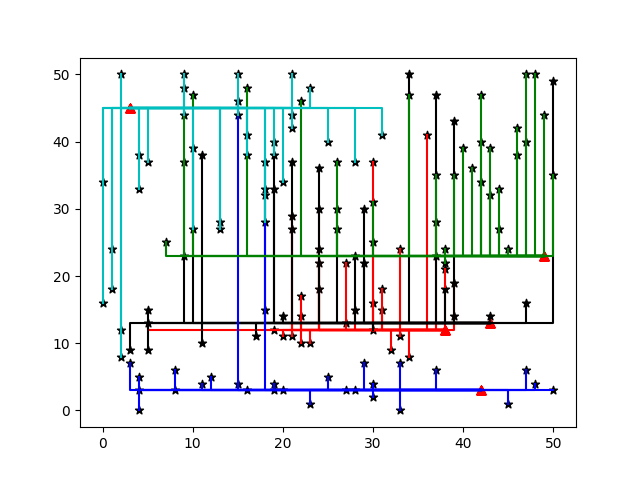
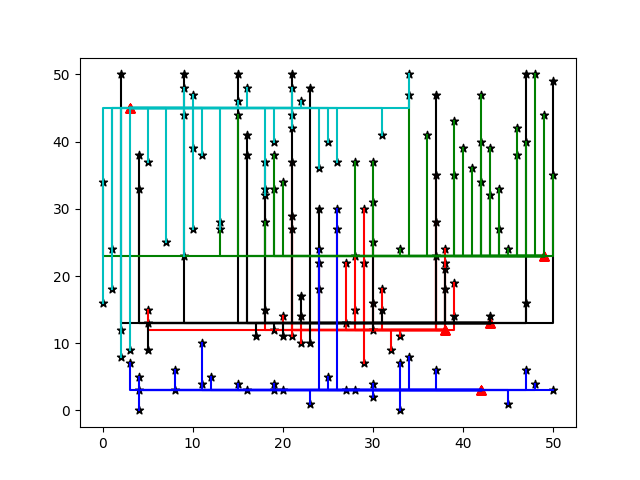
working output algorithm

diff --git a/code/classes/algorithm3.py b/code/classes/algorithm3.py
@@ -82,7 +82,7 @@ if len(unused_houses) == 0:
     for battery in batteries:
 
         # print(f"This is battery {battery.id} Houses: {battery.temp_houses_to_battery}")
-        print(f"NEW BATTERY")
+        print(f"NEW BATTERY!!")
         print(f"location: {battery.x,battery.y}")
         print(f"capacity: 1507.0")
         print(f"houses:")
@@ -98,9 +98,10 @@ if len(unused_houses) == 0:
             end_y = battery.y
 
             # make the route, while the coordinates of the route aren't the coordinates of the right battery: move
+            if current_y < end_y:
                 while current_y < end_y:
-                    house.cables.append((current_x, current_y))
-                    current_y += 1
+                        house.cables.append((current_x, current_y))
+                        current_y += 1
 
             elif current_y > end_y:
                 while current_y > end_y:
@@ -130,34 +131,34 @@ print(costs)
 
 
 
-# Loop to plot coordinates batteries
-i = -1
-for battery in batteries:
-    i += 1
-    for house in battery.houses_to_battery:
+# # Loop to plot coordinates batteries
+# i = -1
+# for battery in batteries:
+#     i += 1
+#     for house in battery.houses_to_battery:
 
-        # print(battery.houses_to_battery)
-        # for battery in batteries:
-        colors = ['r', 'k', 'b', 'g', 'c']
+#         # print(battery.houses_to_battery)
+#         # for battery in batteries:
+#         colors = ['r', 'k', 'b', 'g', 'c']
 
-        house_x = house.x
-        house_y = house.y
+#         house_x = house.x
+#         house_y = house.y
 
-        battery_x = battery.x
-        battery_y = battery.y
+#         battery_x = battery.x
+#         battery_y = battery.y
 
-        cutting_point_x = house.x
-        cutting_point_y = battery.y
+#         cutting_point_x = house.x
+#         cutting_point_y = battery.y
 
-        #plot line between house and cutting point 
-        x = [house_x, cutting_point_x, battery_x]
-        y = [house_y, cutting_point_y, battery_y]
+#         #plot line between house and cutting point 
+#         x = [house_x, cutting_point_x, battery_x]
+#         y = [house_y, cutting_point_y, battery_y]
 
-        ax = plt.subplot(111)
+#         ax = plt.subplot(111)
 
-        houses_plt = ax.scatter(house.x, house.y, color='k', marker='*')
-        batteries_plt = ax.scatter(battery.x, battery.y, color='r', marker='^')
+#         houses_plt = ax.scatter(house.x, house.y, color='k', marker='*')
+#         batteries_plt = ax.scatter(battery.x, battery.y, color='r', marker='^')
 
-        plt.plot(x,y, color= colors[i])
+#         plt.plot(x,y, color= colors[i])
 
-plt.savefig("4plot.png")
+# plt.savefig("4plot.png")

diff --git a/code/classes/random1.py b/code/classes/random1.py
@@ -81,7 +81,7 @@ for house in houses:
 print('own_costs')
 print(own_costs)
 
-    # print(own_costs)
+# print(own_costs)
 for battery in batteries:
     print(battery.id)
     print(battery.capacity)
